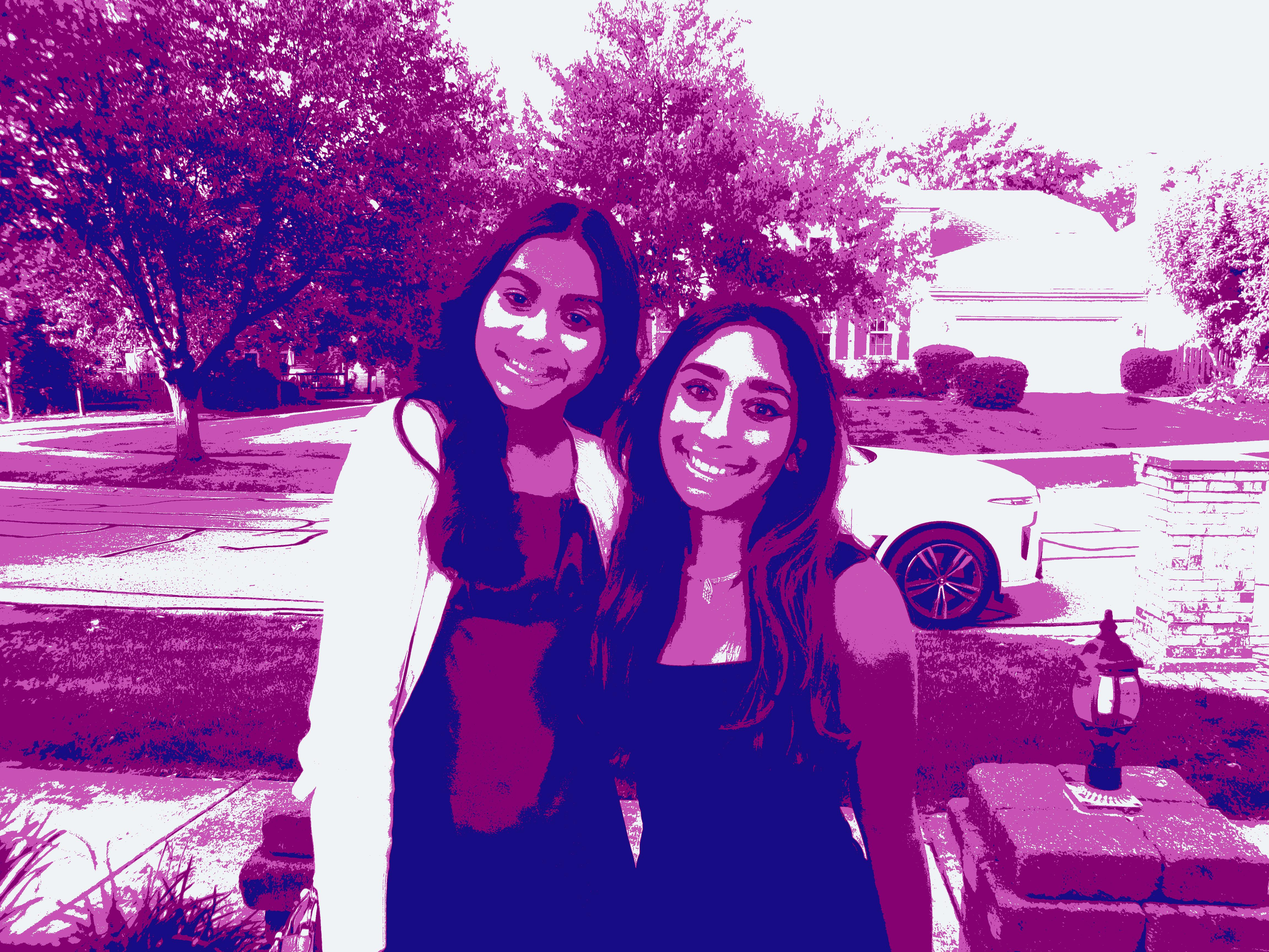
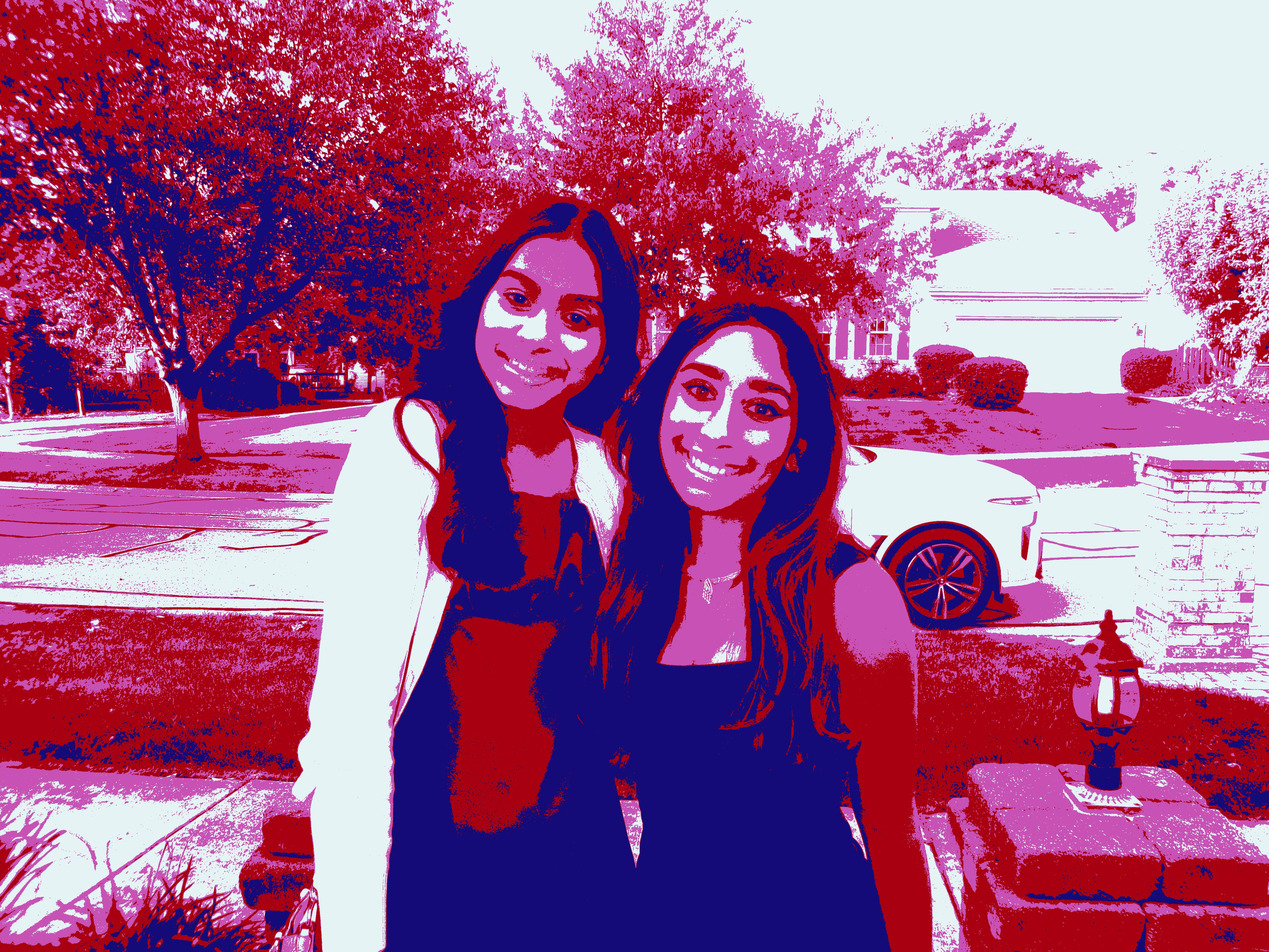
color

diff --git a/ColorLabs17/SheparFaireyLab.java b/ColorLabs17/SheparFaireyLab.java
@@ -191,6 +191,39 @@ public class SheparFaireyLab
              range = (big - small) / 4;
              red = spot1.getRed();
              if (red <=range)
+                 spot1.setColor(new Color (20, 10, 120));
+             else if (red > range && red <=range*2)
+              spot1.setColor(new Color (169, 0, 17));
+             else if (red > range*2 && red <=range*3)
+             spot1.setColor(new Color(200, 81, 181));
+             else
+             spot1.setColor(new Color(230, 243, 245));
+         
+         
+        }//main 
+        me2.explore();
+        me2.write("images/STtry3.jpg");
+        /*
+        pixel = me2.getPixels();
+         int prev =0 , big =0 , small=0;
+         for (Pixel spot1: pixel)
+         {
+             red = spot1.getRed();
+             blue = spot1.getBlue();
+             green = spot1.getGreen();
+             avg = (red + blue + green ) / 3;
+             
+             if (avg > prev && avg > big )
+             big = avg;
+             else if (avg < small)
+             small = avg;
+         }
+         int range = 0;
+         for (Pixel spot1: pixel)
+         {
+             range = (big - small) / 4;
+             red = spot1.getRed();
+             if (red <=range)
                  spot1.setColor(new Color (23, 12, 131));
              else if (red > range && red <=range*2)
               spot1.setColor(new Color (133, 0, 112));
@@ -202,7 +235,8 @@ public class SheparFaireyLab
          
         }//main 
         me2.explore();
-        me2.write("images/STtry3.jpg");
+        me2.write("images/STFINAL.jpg");
+        /**/
 }
 }
 //class
